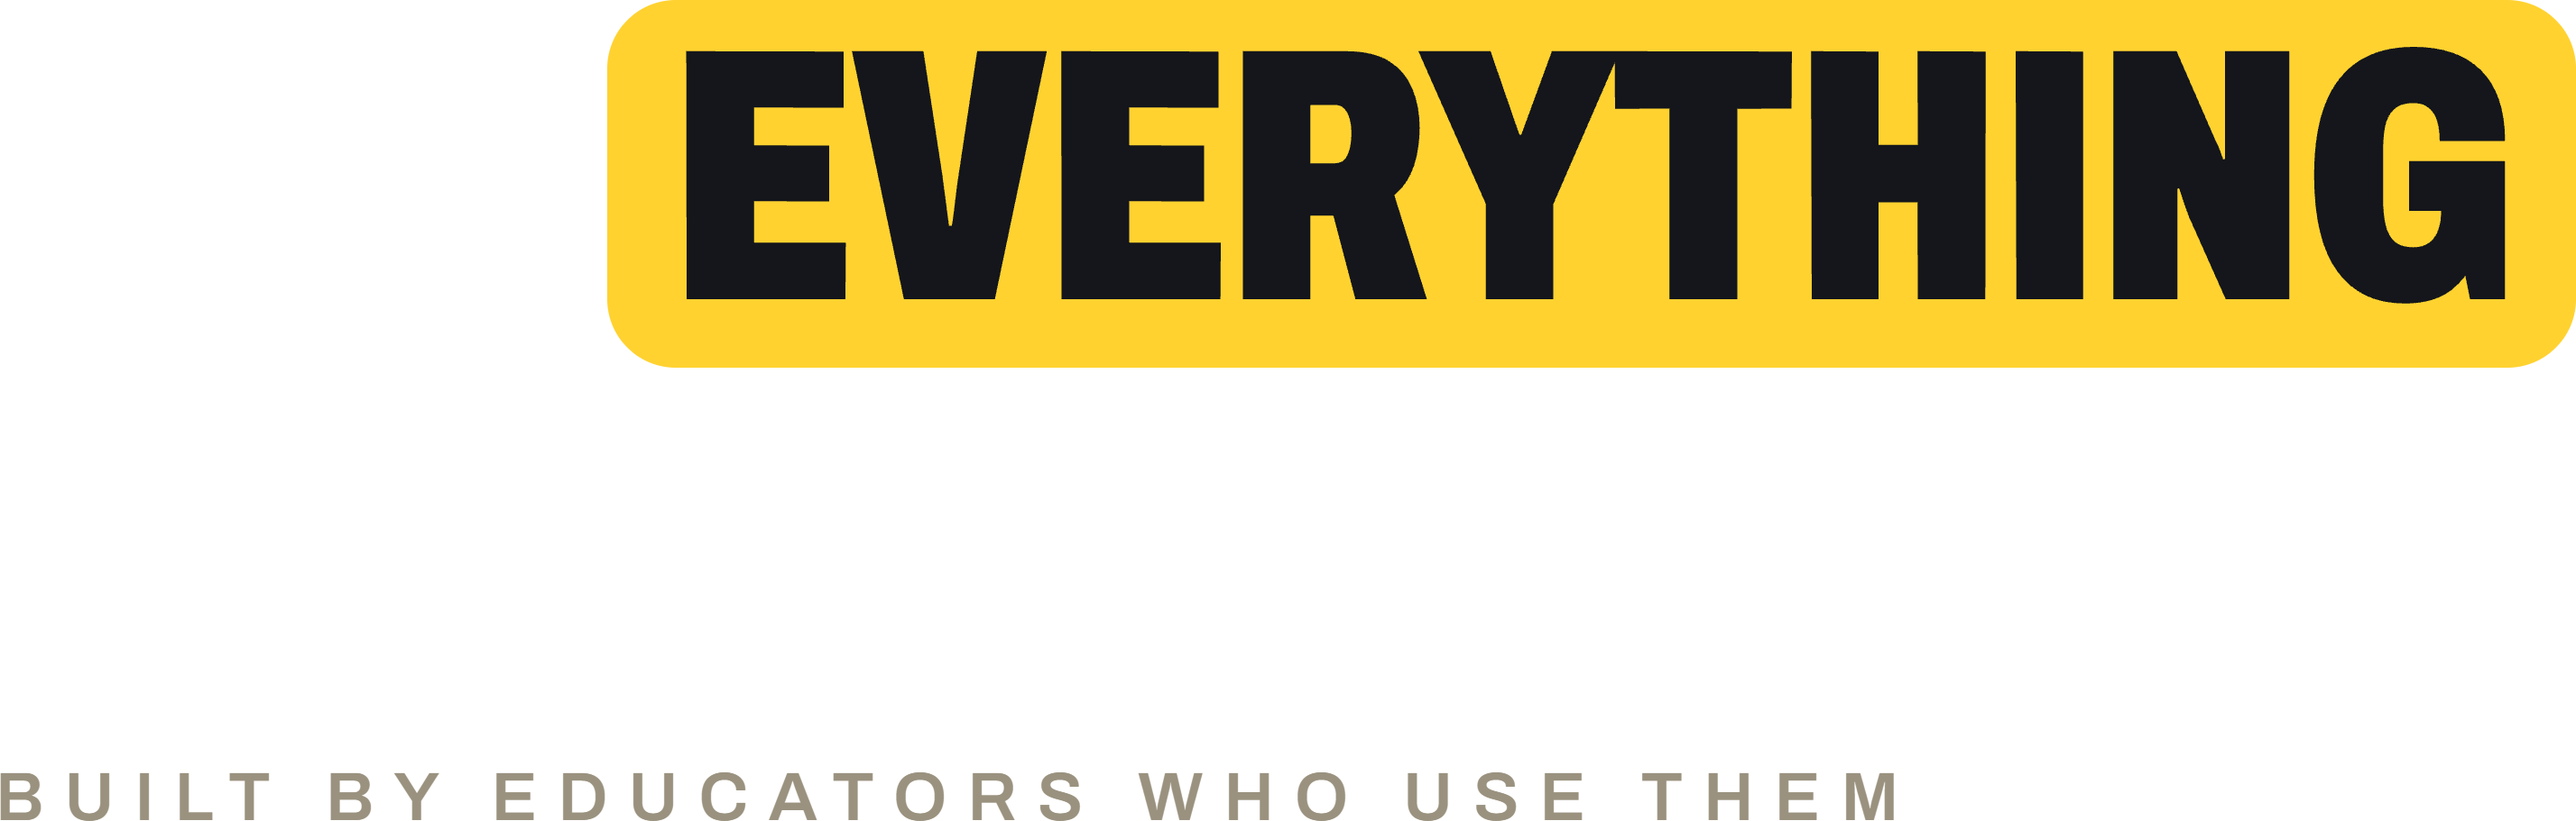
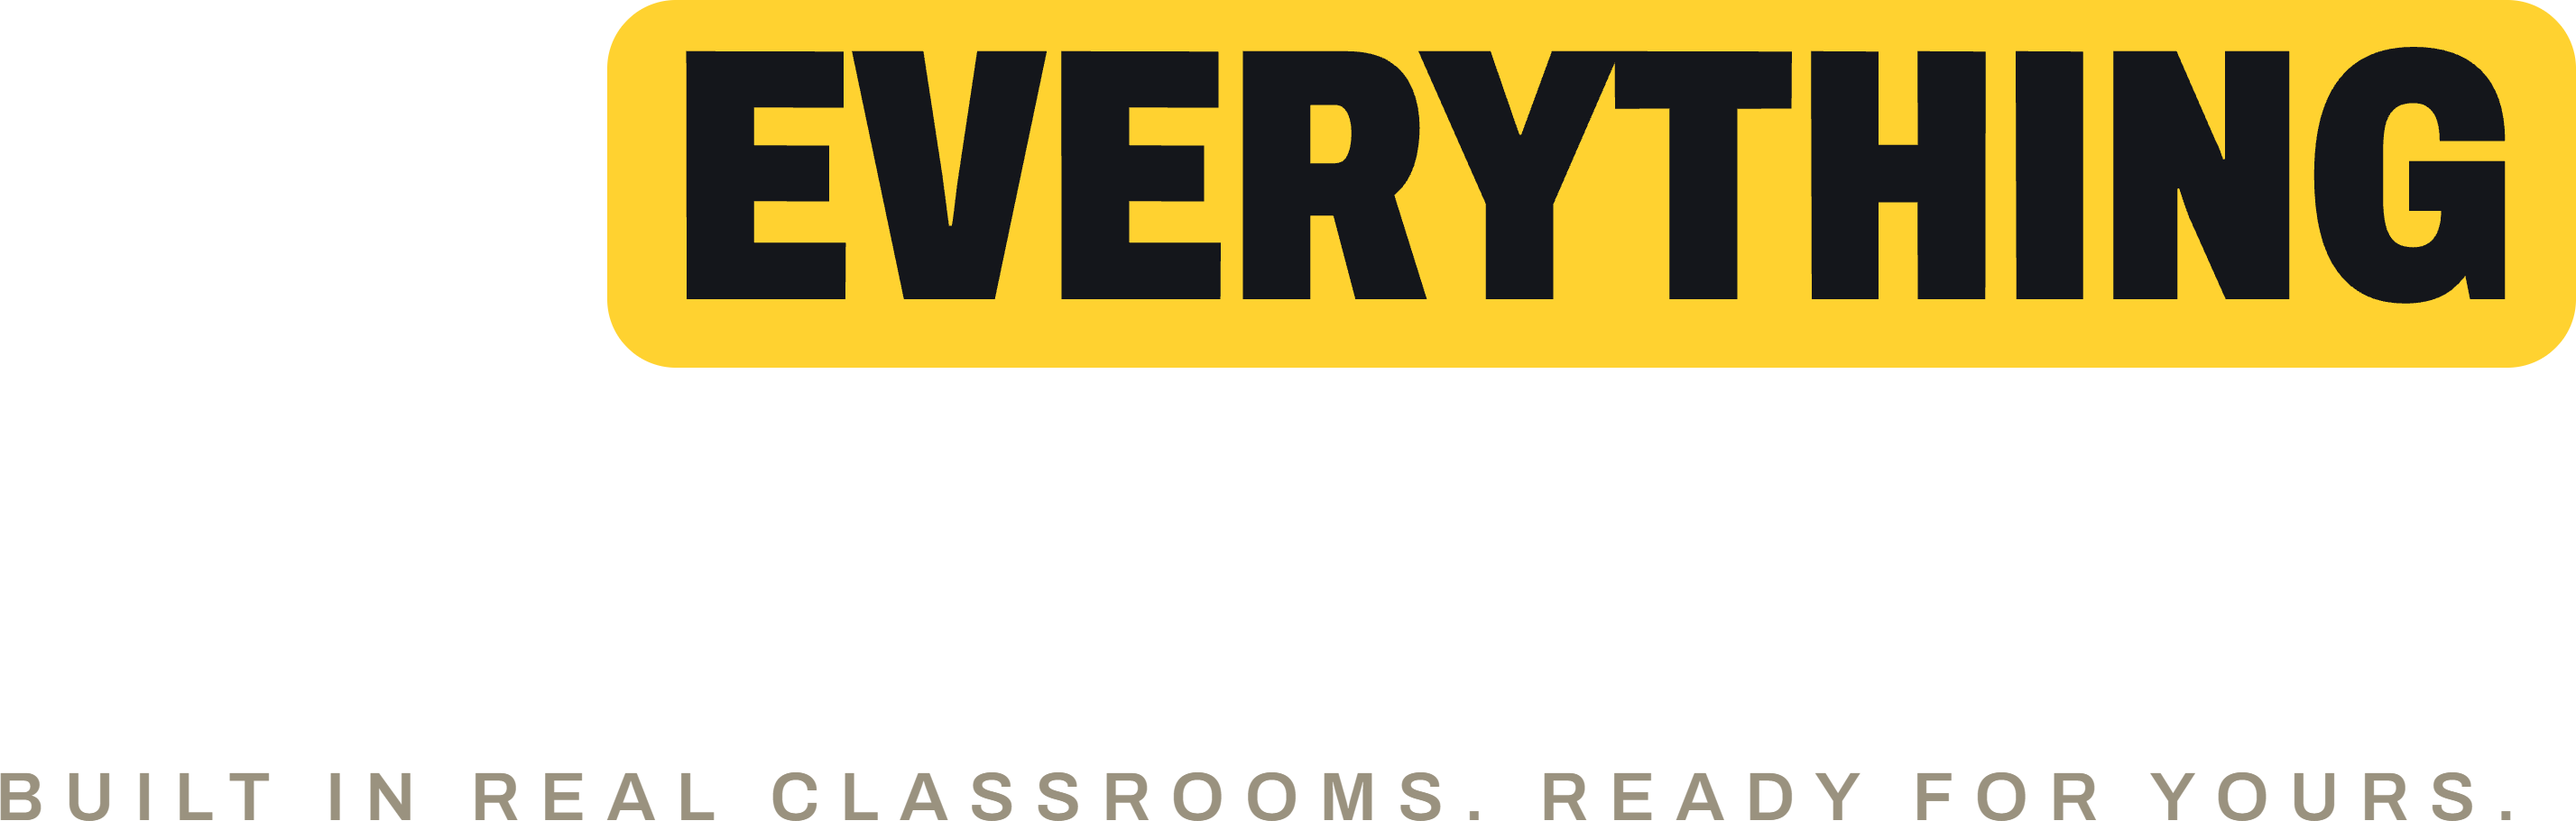
Tagline: built in real classrooms, ready for yours

Changed region(s): [[0.1247, 0.9221, 0.9664, 1.0]]

diff --git a/about/index.html b/about/index.html
@@ -36,7 +36,7 @@
   <div class="inner split even">
     <div>
       <p class="eyebrow">About</p>
-      <h1>Built by educators who use them.</h1>
+      <h1>Built in real classrooms. Ready for yours.</h1>
       <p class="lede">Classroom resources for educators, built by educators who use them and thrive with them. The Everything Educator works across 6
       areas of practice, from world language and elementary through special education, SEL, and middle
       and high school subjects, with twenty years of Spanish teaching at the spine of it. This is where
@@ -251,7 +251,7 @@
       <a href="../terms/">Terms</a>
       <a href="mailto:cataldi23@gmail.com">Contact</a>
     </nav>
-    <p class="fine">Built by educators who use them. No advertising on this site and no tracking that follows you around.</p>
+    <p class="fine">Built in real classrooms. Ready for yours. No advertising on this site and no tracking that follows you around.</p>
   </div>
 </footer>
 

diff --git a/index.html b/index.html
@@ -35,7 +35,7 @@
 <section class="hero">
   <div class="inner">
     <div>
-      <span class="eyebrow">Run by people who still teach</span>
+      <span class="eyebrow">Educator built. Classroom proven.</span>
       <div class="plate">
         <h1>Built for a real room first.<br><em>Cleaned up so it works in yours.</em></h1>
       </div>
@@ -361,7 +361,7 @@
       <a href="terms/">Terms</a>
       <a href="mailto:cataldi23@gmail.com">Contact</a>
     </nav>
-    <p class="fine">Built by educators who use them. No advertising on this site and no tracking that follows you around.</p>
+    <p class="fine">Built in real classrooms. Ready for yours. No advertising on this site and no tracking that follows you around.</p>
   </div>
 </footer>
 <script>

diff --git a/privacy/index.html b/privacy/index.html
@@ -132,7 +132,7 @@
       <a href="../terms/">Terms</a>
       <a href="mailto:cataldi23@gmail.com">Contact</a>
     </nav>
-    <p class="fine">Built by educators who use them. No advertising on this site and no tracking that follows you around.</p>
+    <p class="fine">Built in real classrooms. Ready for yours. No advertising on this site and no tracking that follows you around.</p>
   </div>
 </footer>
 

diff --git a/resources/index.html b/resources/index.html
@@ -271,7 +271,7 @@
       <a href="../terms/">Terms</a>
       <a href="mailto:cataldi23@gmail.com">Contact</a>
     </nav>
-    <p class="fine">Built by educators who use them. No advertising on this site and no tracking that follows you around.</p>
+    <p class="fine">Built in real classrooms. Ready for yours. No advertising on this site and no tracking that follows you around.</p>
   </div>
 </footer>
 

diff --git a/terms/index.html b/terms/index.html
@@ -86,7 +86,7 @@
       <a href="../terms/">Terms</a>
       <a href="mailto:cataldi23@gmail.com">Contact</a>
     </nav>
-    <p class="fine">Built by educators who use them. No advertising on this site and no tracking that follows you around.</p>
+    <p class="fine">Built in real classrooms. Ready for yours. No advertising on this site and no tracking that follows you around.</p>
   </div>
 </footer>
 
